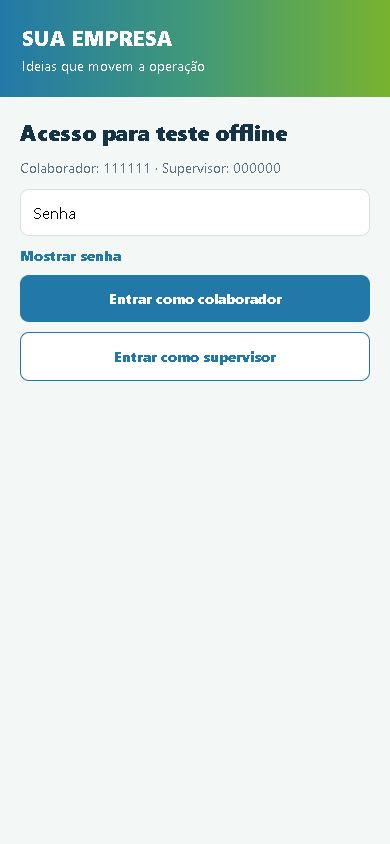
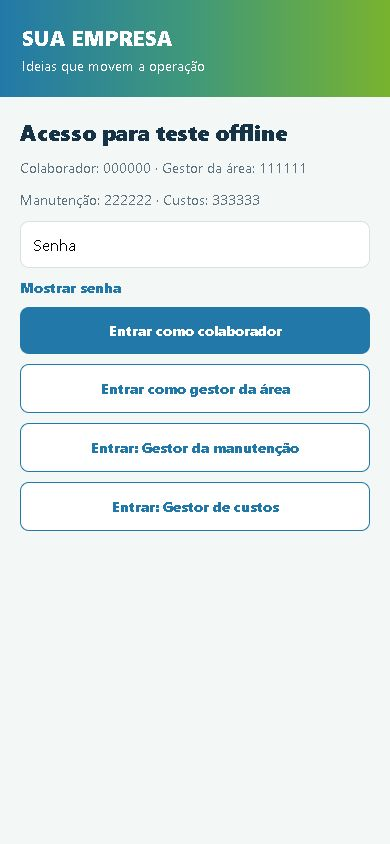
Mostrei as telas atuais e expliquei a instalação na empresa

diff --git a/README.md b/README.md
@@ -16,11 +16,17 @@ As permissões são aplicadas nas regras do Firestore, não somente na tela do a
 
 ## Aplicativo em funcionamento
 
-Estas são capturas reais de uma versão anterior do modo offline, aberta no navegador com a tela ajustada para 390 × 844 pixels. O novo fluxo financeiro e de aprovações ainda não aparece nas imagens. A proposta exibida foi criada apenas para as capturas; o aplicativo de demonstração continua sem propostas preenchidas.
+Estas são capturas atuais do modo offline, aberto no navegador com a tela ajustada para 390 × 844 pixels. A proposta exibida foi criada apenas para mostrar o fluxo nas imagens; o aplicativo de demonstração distribuído continua sem propostas preenchidas.
 
-| Painel do colaborador | Nova proposta | Proposta aguardando análise |
+| Acesso à demonstração | Painel do colaborador | Cadastro da proposta |
 | --- | --- | --- |
-| <img src="assets/screenshots/02-painel-colaborador.png" width="220" alt="Painel do colaborador sem propostas cadastradas"> | <img src="assets/screenshots/03-nova-proposta.png" width="220" alt="Formulário da versão anterior para cadastrar uma proposta"> | <img src="assets/screenshots/04-proposta-aguardando.png" width="220" alt="Proposta de exemplo aguardando análise"> |
+| <img src="assets/screenshots/01-login-offline.png" width="220" alt="Tela de acesso com os quatro perfis de demonstração"> | <img src="assets/screenshots/02-painel-colaborador.png" width="220" alt="Painel do colaborador sem propostas cadastradas"> | <img src="assets/screenshots/03-nova-proposta.png" width="220" alt="Formulário com custo, retorno esperado e período da estimativa"> |
+
+| Resumo financeiro | Escolha dos gestores | Aprovação individual |
+| --- | --- | --- |
+| <img src="assets/screenshots/05-resumo-financeiro.png" width="220" alt="Detalhe de uma proposta com custo e retorno mensal e anual"> | <img src="assets/screenshots/06-escolha-gestores.png" width="220" alt="Gestor da área escolhendo quem aprovará a proposta"> | <img src="assets/screenshots/08-aprovacao-gestor.png" width="220" alt="Ação de aprovação disponível ao gestor designado"> |
+
+[Veja também a proposta aguardando análise e as aprovações pendentes](assets/screenshots/).
 
 As imagens mostram a interface em tamanho de celular, mas não são capturas de um APK instalado no Android.
 
@@ -71,6 +77,8 @@ O perfil `production` gera AAB para distribuição por loja. Caso não tenha Git
 ## Firebase
 
 O guia de implantação está em [docs/IMPLANTACAO-FIREBASE.md](docs/IMPLANTACAO-FIREBASE.md). Ele orienta a criação do projeto, contas de usuários, perfis, regras, testes e distribuição.
+
+O código traz o fluxo atualizado, mas a instalação conectada não fica pronta apenas ao baixar o repositório. A empresa precisa configurar seu projeto Firebase, criar as contas, publicar as regras, vincular a própria conta Expo/EAS, gerar o APK e validar o funcionamento em aparelhos reais. Contas corporativas existentes não entram automaticamente: a versão atual utiliza o login de e-mail e senha do Firebase.
 
 Antes de distribuir, troque o nome, o identificador Android e os arquivos de `assets/` pelos materiais aprovados pela empresa. O ícone atual é apenas um exemplo visual e não concede direito de uso de marcas de terceiros.
 

diff --git a/docs/IMPLANTACAO-FIREBASE.md b/docs/IMPLANTACAO-FIREBASE.md
@@ -2,6 +2,8 @@
 
 Este guia foi escrito para quem vai cuidar do aplicativo na TI. A ideia é implantar sem depender de uma conta pessoal ou de senhas compartilhadas.
 
+O repositório contém o fluxo atual de custo, retorno financeiro, escolha de aprovadores e aprovação individual nos modos offline e Firebase. Ele não contém um Firebase corporativo já configurado, contas de funcionários ou um APK conectado pronto para distribuir. Para instalar na empresa, conclua as etapas abaixo e valide o resultado no ambiente dela.
+
 ## 1. Criar o projeto e definir responsáveis
 
 Crie um projeto no [console Firebase](https://console.firebase.google.com/) sob a conta ou organização da empresa. Defina pelo menos dois administradores autorizados. Registre a região do Firestore, a política de retenção e quem receberá alertas de custo. O aplicativo não precisa de servidor físico na fábrica.
@@ -28,6 +30,8 @@ Os usuários ativos conseguem consultar os nomes, departamentos, papéis e e-mai
 
 O app não cria contas nem altera papéis. Para muitos usuários, a TI pode automatizar o provisionamento com ferramentas administrativas próprias, depois de revisar o processo.
 
+O login conectado usa atualmente **Firebase Authentication com e-mail e senha**. Uma conta já existente no RH, Active Directory ou provedor de identidade da empresa não é reconhecida automaticamente; usar o login corporativo exigirá uma integração adicional, a ser definida com a TI.
+
 ## 3. Publicar as regras
 
 O arquivo `firestore.rules` acompanha o projeto; `firebase.json` aponta para ele. Revise as regras com a equipe de segurança, teste no [Emulator Suite](https://firebase.google.com/docs/firestore/security/test-rules-emulator) e só então publique no projeto da empresa. Um caminho possível é usar o Firebase CLI:
@@ -51,6 +55,8 @@ Registre um aplicativo no Firebase e copie os dados de configuração do SDK par
 Esses valores identificam o projeto e estarão dentro do APK; não são senhas de administrador. A proteção dos dados depende de Authentication, das regras do Firestore e do controle das contas. Jamais coloque um arquivo de conta de serviço dentro do aplicativo.
 
 Antes do build, substitua o identificador de exemplo `br.com.suaempresa.painelmelhorias` em `app.json` por um identificador aprovado pela empresa e disponível na Google Play. Vincule o projeto à conta Expo/EAS da empresa; nenhum identificador de conta pessoal está no repositório.
+
+Após `npx eas-cli build:configure`, confira o `projectId` acrescentado ao `app.json`. Ele deve pertencer à conta Expo/EAS da empresa. Não reutilize o vínculo de uma demonstração pessoal para distribuir a versão corporativa.
 
 ## 5. Testar antes da distribuição
 
